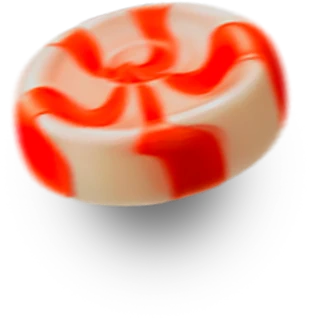
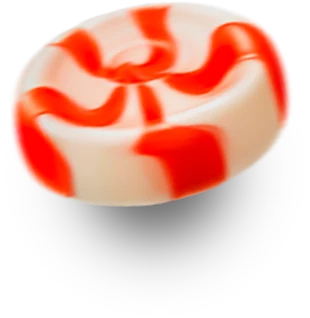
Экран 13: светлые конфеты, слайдер на 30 % меньше, фон Sunset Blush
Конфеты - новая выгрузка Серёги («псд конфеты.psd»), они светлее прежних.
Потолок холста опущен с 1340 до 938, а там, где холст занимал всю ширину
контейнера, теперь берётся 70 % - иначе на окнах 768-1440 уменьшения
не было бы вовсе. На телефоне холст остался во всю ширину.
Фон - мешевый градиент «Sunset Blush» с 21st.dev вместо ровного розового.

Changed region(s): [[0.1742, 0.0, 0.929, 0.6509]]

diff --git a/v2.html b/v2.html
@@ -3695,11 +3695,25 @@ html.zs-lock .nav{margin-right:var(--zs-sbw,0px)}
      2099x1098: рамка занимает в нём 1778 px по ширине, а по краям остаются
      поля, в которых висят конфеты. Поэтому вылетать за блок нечему и запас
      под конфеты больше не нужен. Видимая рамка = 84,7 % холста: при 1340
-     это те же 1135 px, что были у прежней рамки. */
-  --mk-w: min(1340px, 100%);
+     это те же 1135 px, что были у прежней рамки. Просьба Серёги 10.09.2026 -
+     «слайдер на 30 % меньше»: потолок с 1340 опущен до 938, и там, где холст
+     раньше занимал всю ширину контейнера, теперь берётся 70 % от неё —
+     иначе на средних окнах (768-1440) уменьшения не случилось бы вовсе. */
+  --mk-w: min(938px, 70%);
   --mk-arw: clamp(44px, 4.4vw, 62px);
   --mk-fl: 12%;                   /* размах полёта конфет, доля их высоты */
-  background:#FFE2EA; position:relative; z-index:25; overflow-x:clip;
+  /* Фон «Sunset Blush» с 21st.dev (просьба Серёги 10.09.2026): четыре круглых
+     пятна, каждое на своей точке, поверх медовой заливки — Rose milk, Blush,
+     Mauve и Honey. Прежний ровный розовый #FFE2EA снят вместе с ним. Пятна
+     заданы процентами, поэтому растягиваются вместе с экраном и на телефоне
+     дают ту же картинку, только гуще. */
+  background-color:#F6D9A8;
+  background-image:
+    radial-gradient(circle at 65.24% 44.05%, rgba(251,239,242,1) 0%, rgba(251,239,242,.844) 9.57%, rgba(251,239,242,.5) 19.15%, rgba(251,239,242,.156) 28.72%, rgba(251,239,242,0) 38.3%),
+    radial-gradient(circle at 27.95% 75.05%, rgba(243,192,199,1) 0%, rgba(243,192,199,.844) 12.46%, rgba(243,192,199,.5) 24.92%, rgba(243,192,199,.156) 37.39%, rgba(243,192,199,0) 49.85%),
+    radial-gradient(circle at 52.34% 20.59%, rgba(231,210,240,1) 0%, rgba(231,210,240,.844) 15.44%, rgba(231,210,240,.5) 30.88%, rgba(231,210,240,.156) 46.31%, rgba(231,210,240,0) 61.75%),
+    radial-gradient(circle at 80.74% 84.5%,  rgba(246,217,168,1) 0%, rgba(246,217,168,.844) 18.32%, rgba(246,217,168,.5) 36.65%, rgba(246,217,168,.156) 54.97%, rgba(246,217,168,0) 73.3%);
+  position:relative; z-index:25; overflow-x:clip;
   padding: calc(72 * var(--u)) 0 calc(80 * var(--u));
 }
 /* Цвета заголовка на этом экране свои: общие `.cr-red` и `.cr-blue` взяты
@@ -3773,7 +3787,9 @@ html.zs-lock .nav{margin-right:var(--zs-sbw,0px)}
   /* Общий `.cr-cont` ниже 768 px идёт без полей — здесь они обязательны:
      в них помещается вылет летающих конфет (см. шапку блока). */
   .mk .cr-cont{padding-inline:16px}
-  .mk{padding:36px 0 42px; --mk-arw:36px}
+  /* На телефоне холст остаётся во всю ширину: там 70 % дали бы рамку
+     в 260 px, на которой фотографию уже не разглядеть. */
+  .mk{padding:36px 0 42px; --mk-arw:36px; --mk-w:100%}
   /* Заголовок на телефоне мельче общих 13 px: строка «ВОТ КАКИЕ КРАСИВЫЕ
      ЛЕДЕНЦЫ» при 39 px готовой строки ломается на три и вместе со второй
      половиной съедает пол-экрана — на фотографию, ради которой экран
@@ -4883,8 +4899,8 @@ html.zs-lock .nav{margin-right:var(--zs-sbw,0px)}
         </div>
 
         <img class="mk-frame" src="mk/frame.webp?v=2" width="2099" height="1098" alt="" aria-hidden="true" decoding="async">
-        <img class="mk-candy mk-candy--a" src="mk/candy-a.webp?v=1" width="310" height="318" alt="" aria-hidden="true" decoding="async">
-        <img class="mk-candy mk-candy--b" src="mk/candy-b.webp?v=1" width="298" height="312" alt="" aria-hidden="true" decoding="async">
+        <img class="mk-candy mk-candy--a" src="mk/candy-a.webp?v=2" width="310" height="318" alt="" aria-hidden="true" decoding="async">
+        <img class="mk-candy mk-candy--b" src="mk/candy-b.webp?v=2" width="298" height="312" alt="" aria-hidden="true" decoding="async">
 
         <button class="mk-arw mk-arw--prev" type="button" aria-label="Предыдущее фото">
           <svg viewBox="0 0 24 24" aria-hidden="true" focusable="false"><path d="M15 4 7 12l8 8"/></svg>
